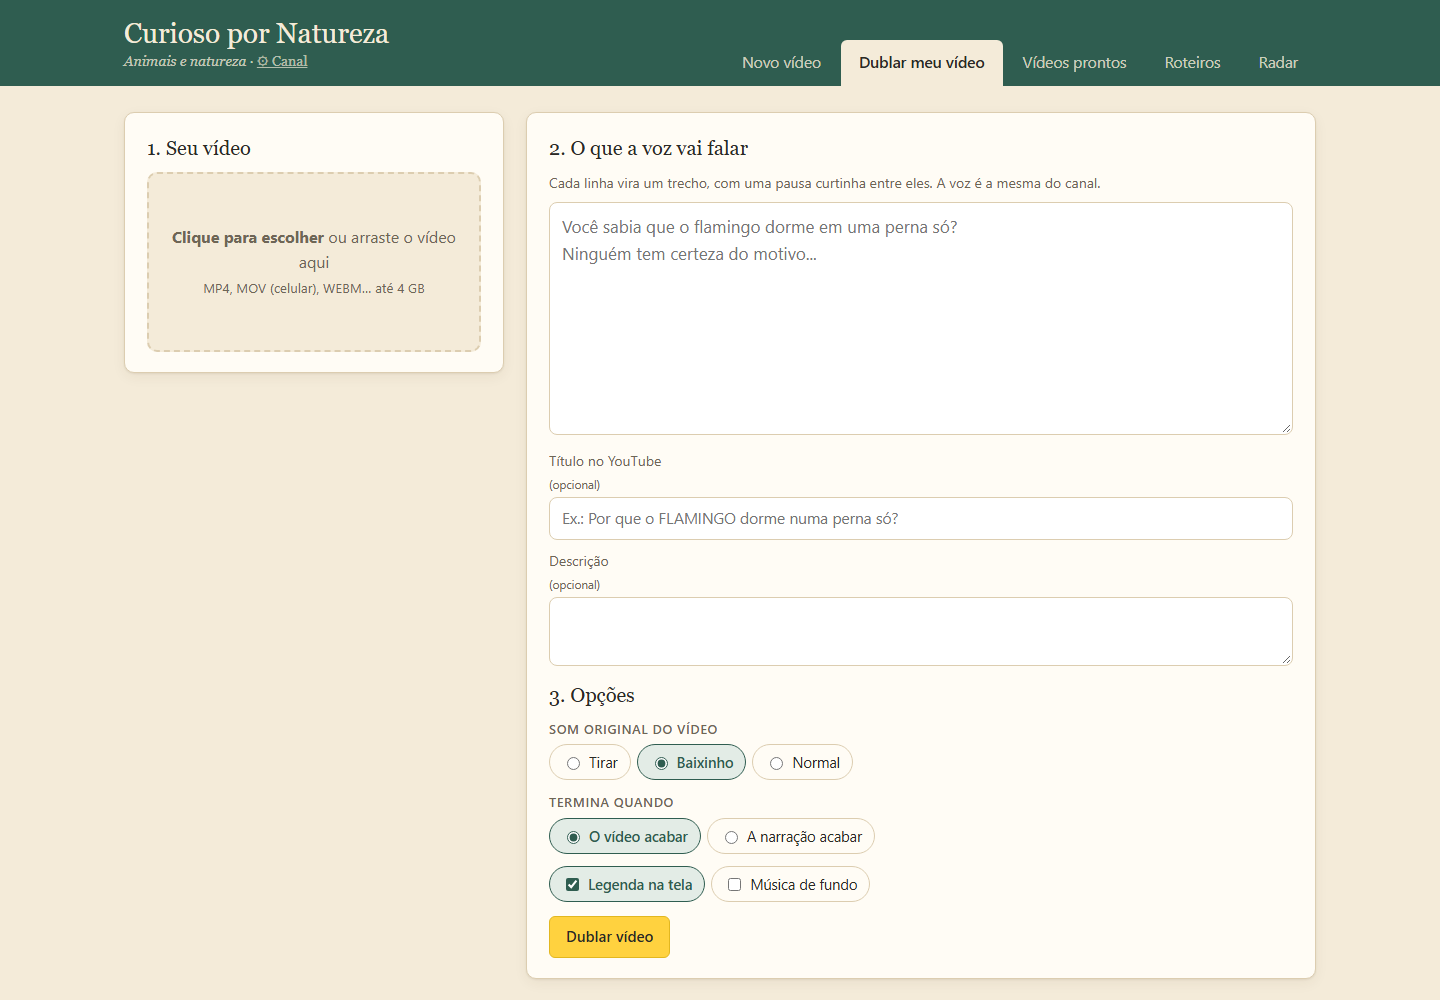
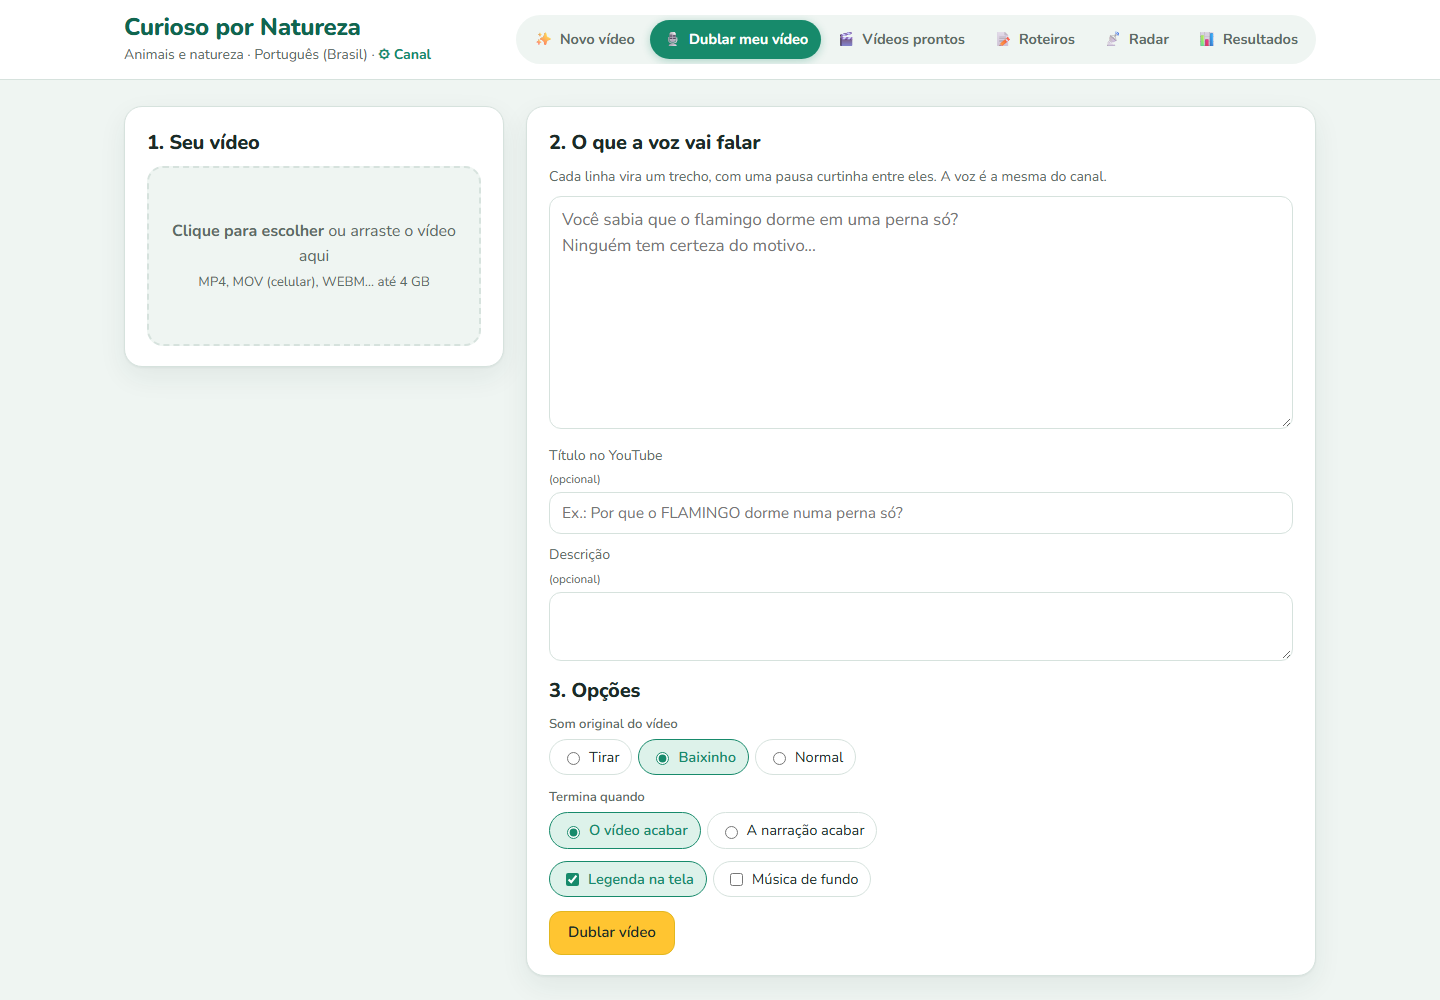
Visual novo do painel: mais claro e amigável
Fundo verde-menta, cartões brancos, fonte Nunito, abas em pílula com ícones,
rótulos sem caixa alta, cantos padronizados, foco visível no teclado e
animação reduzida para quem prefere. Prints do README atualizados.

diff --git a/painel/index.html b/painel/index.html
@@ -3,62 +3,73 @@
 <head>
 <meta charset="utf-8">
 <meta name="viewport" content="width=device-width, initial-scale=1">
+<link rel="preconnect" href="https://fonts.googleapis.com">
+<link rel="preconnect" href="https://fonts.gstatic.com" crossorigin>
+<link href="https://fonts.googleapis.com/css2?family=Nunito:wght@400;600;700;800&display=swap" rel="stylesheet">
 <title>Gerador de vídeos — painel</title>
 <style>
   :root {
-    --papel: #F4EBD9;
-    --papel-2: #EBDFC7;
-    --cartao: #FFFCF5;
-    --tinta: #2B2A26;
-    --tinta-2: #6E6656;
-    --verde: #2F5D50;
-    --verde-2: #234539;
-    --verde-claro: #E3ECE6;
-    --amarelo: #FFD23F;
-    --linha: #DCCDB0;
-    --erro: #A63D2F;
-    --sombra: 0 1px 2px rgba(60, 45, 20, .08), 0 4px 14px rgba(60, 45, 20, .06);
+    --papel: #EFF5F2;
+    --papel-2: #E1ECE7;
+    --cartao: #FFFFFF;
+    --tinta: #1C2B27;
+    --tinta-2: #5B6B66;
+    --verde: #178A6B;
+    --verde-2: #10664F;
+    --verde-claro: #DDF2EA;
+    --amarelo: #FFC531;
+    --linha: #D6E2DD;
+    --erro: #C2410C;
+    --sombra: 0 1px 2px rgba(23, 60, 50, .05), 0 10px 28px rgba(23, 60, 50, .07);
   }
   * { box-sizing: border-box; }
   body {
     margin: 0; background: var(--papel); color: var(--tinta);
-    font: 16px/1.55 system-ui, -apple-system, "Segoe UI", sans-serif;
+    font: 16px/1.55 "Nunito", system-ui, -apple-system, "Segoe UI", sans-serif;
   }
-  h1, h2, h3 { font-family: Georgia, "Times New Roman", serif; font-weight: normal; margin: 0; }
+  h1, h2, h3 { font-weight: 800; letter-spacing: -0.01em; margin: 0; }
   a { color: inherit; }
   button {
     font: inherit; font-size: 15px; cursor: pointer; border: 1px solid var(--verde); background: var(--verde);
-    color: #fff; padding: 8px 16px; border-radius: 6px; transition: background .12s;
+    color: #fff; padding: 9px 18px; border-radius: 12px; font-weight: 700; transition: background .12s;
   }
   button:hover { background: var(--verde-2); }
   button.leve { background: var(--cartao); color: var(--verde); border-color: var(--linha); }
   button.leve:hover { background: var(--verde-claro); border-color: var(--verde); }
   button.destaque { background: var(--amarelo); border-color: #E2B71F; color: var(--tinta); font-weight: 600; }
-  button.destaque:hover { background: #F5C625; }
+  button.destaque:hover { background: #F5B70F; }
+  button.suave { background: var(--verde-claro); border-color: transparent; color: var(--verde-2); }
+  button.suave:hover { background: #C8EADD; }
   button:disabled { opacity: .45; cursor: not-allowed; }
   .pequeno { font-size: 13.5px; padding: 4px 11px; }
 
   /* topo */
-  header { background: var(--verde); color: var(--papel); }
+  header { background: var(--cartao); color: var(--tinta); border-bottom: 1px solid var(--linha); }
   .topo-dentro {
-    max-width: 1240px; margin: 0 auto; padding: 18px 24px 0;
-    display: flex; align-items: flex-end; justify-content: space-between; gap: 18px; flex-wrap: wrap;
+    max-width: 1240px; margin: 0 auto; padding: 14px 24px;
+    display: flex; align-items: center; justify-content: space-between; gap: 14px 24px; flex-wrap: wrap;
   }
-  .marca h1 { font-size: 28px; line-height: 1.1; }
-  .marca p { margin: 2px 0 14px; font-size: 14px; opacity: .75; font-style: italic; font-family: Georgia, serif; }
-  nav { display: flex; gap: 2px; }
+  .marca h1 { font-size: 24px; line-height: 1.15; color: var(--verde-2); }
+  .marca p { margin: 2px 0 0; font-size: 14px; color: var(--tinta-2); }
+  nav { display: flex; gap: 2px; background: var(--papel); padding: 5px; border-radius: 999px; overflow-x: auto;
+        max-width: 100%; min-width: 0; scrollbar-width: none; }
+  .topo-dentro > * { min-width: 0; }
   nav button {
-    background: transparent; color: var(--papel); border: none; border-radius: 6px 6px 0 0;
-    padding: 10px 18px 12px; opacity: .8; font-size: 15.5px;
+    background: transparent; color: var(--tinta-2); border: none; border-radius: 999px;
+    padding: 8px 13px; font-size: 14.5px; font-weight: 700; white-space: nowrap;
   }
-  nav button:hover { background: rgba(255,255,255,.08); opacity: 1; }
-  nav button.ativo { background: var(--papel); color: var(--tinta); opacity: 1; font-weight: 600; }
+  nav button:hover { background: var(--verde-claro); color: var(--verde-2); }
+  nav button.ativo { background: var(--verde); color: #fff; box-shadow: 0 2px 8px rgba(23, 138, 107, .3); }
+  nav button .ico { margin-right: 6px; }
+  button:focus-visible, a:focus-visible, input:focus-visible, select:focus-visible, textarea:focus-visible {
+    outline: 3px solid var(--amarelo); outline-offset: 2px;
+  }
 
   main { max-width: 1240px; margin: 0 auto; padding: 26px 24px 80px; }
   .aba { display: none; }
   .aba.ativa { display: block; }
   .vazio { color: var(--tinta-2); font-style: italic; }
-  .cartao { background: var(--cartao); border: 1px solid var(--linha); border-radius: 10px; box-shadow: var(--sombra); }
+  .cartao { background: var(--cartao); border: 1px solid var(--linha); border-radius: 18px; box-shadow: var(--sombra); }
   .titulo-sec { display: flex; justify-content: space-between; align-items: center; gap: 12px; margin-bottom: 12px; }
   .titulo-sec h2 { font-size: 21px; }
 
@@ -70,13 +81,17 @@
   .tarefa-cab { display: flex; justify-content: space-between; align-items: baseline; gap: 12px; flex-wrap: wrap; }
   .tarefa-cab strong { font-size: 17px; }
   .tarefa-cab span { color: var(--tinta-2); font-size: 14px; }
-  .barra { height: 12px; background: var(--papel-2); border-radius: 6px; overflow: hidden; margin: 10px 0 6px; }
-  .barra div { height: 100%; width: 0; background: var(--verde); border-radius: 6px; transition: width .6s ease; }
+  .barra { height: 12px; background: var(--papel-2); border-radius: 999px; overflow: hidden; margin: 10px 0 6px; }
+  .barra div { height: 100%; width: 0; background: var(--verde); border-radius: 999px; transition: width .6s ease; }
   #tarefa.rodando .barra div {
-    background: repeating-linear-gradient(-45deg, var(--verde) 0 14px, #3B7062 14px 28px);
+    background: repeating-linear-gradient(-45deg, var(--verde) 0 14px, #2FA383 14px 28px);
     background-size: 40px 40px; animation: anda 1.2s linear infinite;
   }
   @keyframes anda { to { background-position: 40px 0; } }
+  @media (prefers-reduced-motion: reduce) {
+    #tarefa.rodando .barra div { animation: none; }
+    * { transition: none !important; }
+  }
   .etapas { display: flex; gap: 6px; flex-wrap: wrap; margin-top: 8px; font-size: 13px; }
   .etapas span { padding: 2px 10px; border-radius: 99px; background: var(--papel-2); color: var(--tinta-2); }
   .etapas span.feita { background: var(--verde-claro); color: var(--verde); }
@@ -85,7 +100,7 @@
   details summary { cursor: pointer; }
   details pre {
     margin: 6px 0 0; max-height: 200px; overflow: auto; font: 12px/1.45 Consolas, monospace;
-    white-space: pre-wrap; background: var(--papel); padding: 8px 10px; border-radius: 6px;
+    white-space: pre-wrap; background: var(--papel); padding: 8px 10px; border-radius: 12px;
   }
 
   /* vídeos */
@@ -93,19 +108,19 @@
   .lista { display: flex; flex-direction: column; gap: 8px; }
   .item {
     display: grid; grid-template-columns: 64px 1fr; gap: 12px; align-items: center;
-    padding: 8px; cursor: pointer; border-radius: 10px; border: 1px solid transparent;
+    padding: 8px; cursor: pointer; border-radius: 14px; border: 1px solid transparent;
   }
   .item:hover { background: var(--cartao); border-color: var(--linha); }
   .item.sel { background: var(--cartao); border-color: var(--verde); box-shadow: var(--sombra); }
   .mini {
-    width: 64px; height: 64px; border-radius: 6px; overflow: hidden; background: #1d1d1b; position: relative;
+    width: 64px; height: 64px; border-radius: 12px; overflow: hidden; background: #1d1d1b; position: relative;
   }
   .mini img, .mini video { width: 100%; height: 100%; object-fit: cover; display: block; pointer-events: none; }
   .item .t { font-weight: 600; font-size: 14.5px; line-height: 1.3; }
   .item .m { color: var(--tinta-2); font-size: 13px; margin-top: 3px; display: flex; gap: 6px; align-items: center; flex-wrap: wrap; }
   .selo {
-    display: inline-block; font-size: 11px; text-transform: uppercase; letter-spacing: .6px; font-weight: 600;
-    padding: 1px 7px; border-radius: 4px; background: var(--papel-2); color: var(--tinta-2);
+    display: inline-block; font-size: 11px;  font-weight: 600;
+    padding: 2px 10px; border-radius: 999px; background: var(--papel-2); color: var(--tinta-2);
   }
   .selo.longo { background: var(--verde-claro); color: var(--verde); }
   .selo.pub { background: var(--verde); color: #fff; }
@@ -113,28 +128,28 @@
   #detalhe-video .cartao { padding: 22px; }
   .detalhe { display: grid; grid-template-columns: auto 1fr; gap: 26px; align-items: start; }
   .detalhe.longo { grid-template-columns: 1fr; }
-  .detalhe video { background: #000; display: block; border-radius: 8px; }
+  .detalhe video { background: #000; display: block; border-radius: 12px; }
   .detalhe video.short { height: 600px; aspect-ratio: 9/16; }
   .detalhe video.longo { width: 100%; aspect-ratio: 16/9; }
   .detalhe h2 { font-size: 23px; margin-bottom: 12px; line-height: 1.25; }
   .acoes { display: flex; gap: 10px; flex-wrap: wrap; align-items: center; margin-bottom: 18px; }
   .interruptor {
     display: inline-flex; gap: 8px; align-items: center; cursor: pointer; padding: 7px 14px;
-    border: 1px solid var(--linha); border-radius: 6px; background: var(--cartao); font-size: 15px;
+    border: 1px solid var(--linha); border-radius: 12px; background: var(--cartao); font-size: 15px;
   }
   .interruptor input { width: 17px; height: 17px; accent-color: var(--verde); }
   .interruptor.marcado { background: var(--verde-claro); border-color: var(--verde); color: var(--verde); font-weight: 600; }
   .campo { margin-bottom: 16px; }
   .campo .rot {
     display: flex; justify-content: space-between; align-items: center; margin-bottom: 5px;
-    font-size: 12.5px; text-transform: uppercase; letter-spacing: .7px; color: var(--tinta-2); font-weight: 600;
+    font-size: 12.5px;  color: var(--tinta-2); font-weight: 600;
   }
   .campo .txt {
-    background: var(--papel); border-radius: 6px; padding: 10px 12px; white-space: pre-wrap;
+    background: var(--papel); border-radius: 12px; padding: 10px 12px; white-space: pre-wrap;
     max-height: 210px; overflow: auto; font-size: 14.5px;
   }
-  .thumb img { width: 100%; max-width: 440px; border-radius: 6px; display: block; }
-  .horarios { font-size: 14px; color: var(--tinta-2); white-space: pre-wrap; background: var(--papel); border-radius: 6px; padding: 10px 12px; }
+  .thumb img { width: 100%; max-width: 440px; border-radius: 12px; display: block; }
+  .horarios { font-size: 14px; color: var(--tinta-2); white-space: pre-wrap; background: var(--papel); border-radius: 12px; padding: 10px 12px; }
   .aviso { font-size: 14px; color: var(--tinta-2); border-top: 1px dashed var(--linha); padding-top: 12px; margin-top: 6px; }
 
   /* roteiros */
@@ -145,16 +160,16 @@
   .roteiro .bts { display: flex; gap: 8px; align-items: center; flex-wrap: wrap; justify-content: flex-end; }
   .ok { color: var(--verde); font-weight: 600; }
   .dica { margin-top: 20px; color: var(--tinta-2); font-size: 14.5px; }
-  code { background: var(--papel-2); padding: 1px 6px; border-radius: 4px; font-size: 13.5px; }
+  code { background: var(--papel-2); padding: 1px 6px; border-radius: 6px; font-size: 13.5px; }
 
   /* radar */
   .radar-topo { display: flex; gap: 12px; align-items: center; flex-wrap: wrap; margin-bottom: 20px; }
-  select { font: inherit; padding: 7px 10px; border: 1px solid var(--linha); border-radius: 6px; background: var(--cartao); }
+  select { font: inherit; padding: 7px 10px; border: 1px solid var(--linha); border-radius: 12px; background: var(--cartao); }
   .temas { display: grid; grid-template-columns: repeat(auto-fill, minmax(270px, 1fr)); gap: 14px; margin-bottom: 30px; }
   .tema { padding: 16px 18px; display: flex; flex-direction: column; gap: 8px; }
   .tema .cab { display: flex; justify-content: space-between; align-items: baseline; gap: 8px; }
   .tema h3 { font-size: 21px; }
-  .tema .pos { font-family: Georgia, serif; color: var(--tinta-2); font-size: 15px; }
+  .tema .pos { color: var(--tinta-2); font-size: 15px; }
   .tema .forca { height: 6px; background: var(--papel-2); border-radius: 3px; overflow: hidden; }
   .tema .forca div { height: 100%; background: var(--amarelo); }
   .tema ul { margin: 0; padding-left: 18px; font-size: 14px; color: var(--tinta-2); flex: 1; }
@@ -173,7 +188,7 @@
   .pedido .sub { color: var(--tinta-2); font-size: 14.5px; margin: 4px 0 12px; }
   textarea {
     width: 100%; font: inherit; font-size: 17px; padding: 10px 12px; border: 1px solid var(--linha);
-    border-radius: 8px; background: #fff; resize: vertical; color: var(--tinta);
+    border-radius: 12px; background: #fff; resize: vertical; color: var(--tinta);
   }
   textarea:focus { outline: 2px solid var(--amarelo); border-color: #E2B71F; }
   .linha-pedido { display: flex; justify-content: space-between; align-items: center; gap: 14px; flex-wrap: wrap; margin-top: 12px; }
@@ -190,7 +205,7 @@
   .angulos { display: grid; grid-template-columns: repeat(auto-fill, minmax(320px, 1fr)); gap: 14px; margin-bottom: 18px; }
   .angulo { padding: 18px 20px; display: flex; flex-direction: column; gap: 8px; }
   .angulo h3 { font-size: 19px; line-height: 1.3; }
-  .angulo .gancho { font-family: Georgia, serif; font-style: italic; font-size: 15.5px; border-left: 3px solid var(--amarelo); padding-left: 10px; }
+  .angulo .gancho { font-style: italic; font-size: 15.5px; border-left: 3px solid var(--amarelo); padding-left: 10px; }
   .angulo p { margin: 0; font-size: 14.5px; }
   .angulo .porque { color: var(--tinta-2); font-size: 13.5px; flex: 1; }
   .obs { margin-bottom: 26px; }
@@ -199,8 +214,7 @@
   .previa { padding: 22px 24px; border-left: 5px solid var(--verde); }
   .previa h2 { font-size: 22px; margin-bottom: 4px; }
   .previa .narracao {
-    background: var(--papel); border-radius: 8px; padding: 14px 16px; margin: 12px 0; white-space: pre-wrap;
-    font-family: Georgia, serif; font-size: 16px; line-height: 1.65; max-height: 420px; overflow: auto;
+    background: var(--papel); border-radius: 12px; padding: 14px 16px; margin: 12px 0; white-space: pre-wrap; font-size: 16px; line-height: 1.65; max-height: 420px; overflow: auto;
   }
   .previa .fontes { font-size: 13px; color: var(--tinta-2); }
 
@@ -211,31 +225,31 @@
   .dublar .sub { color: var(--tinta-2); font-size: 14px; margin: 0 0 8px; }
   .soltar {
     display: flex; align-items: center; justify-content: center; text-align: center; min-height: 180px;
-    border: 2px dashed var(--linha); border-radius: 10px; cursor: pointer; padding: 16px;
+    border: 2px dashed var(--linha); border-radius: 16px; cursor: pointer; padding: 16px;
     color: var(--tinta-2); background: var(--papel); transition: all .12s;
   }
   .soltar:hover, .soltar.sobre { border-color: var(--verde); background: var(--verde-claro); color: var(--verde); }
   .soltar.escolhido { min-height: 0; padding: 10px; }
-  #dub-previa { width: 100%; max-height: 520px; background: #000; border-radius: 8px; margin-top: 10px; }
+  #dub-previa { width: 100%; max-height: 520px; background: #000; border-radius: 12px; margin-top: 10px; }
   .dub-campos { display: grid; gap: 10px; margin-top: 8px; }
   .dub-campos label { font-size: 14px; color: var(--tinta-2); display: grid; gap: 4px; }
   .dub-campos textarea { font-size: 15px; }
   input[type="text"] {
-    font: inherit; font-size: 15.5px; padding: 8px 12px; border: 1px solid var(--linha); border-radius: 8px;
+    font: inherit; font-size: 15.5px; padding: 8px 12px; border: 1px solid var(--linha); border-radius: 12px;
     background: #fff; color: var(--tinta); width: 100%;
   }
   input[type="text"]:focus { outline: 2px solid var(--amarelo); border-color: #E2B71F; }
   .opcoes { display: grid; gap: 12px; }
-  .opcoes .rotulo { display: block; font-size: 13px; text-transform: uppercase; letter-spacing: .6px; color: var(--tinta-2); font-weight: 600; margin-bottom: 5px; }
+  .opcoes .rotulo { display: block; font-size: 13px;  color: var(--tinta-2); font-weight: 600; margin-bottom: 5px; }
   .aviso-dur { color: #9A6B00; }
   @media (max-width: 900px) { .dublar { grid-template-columns: 1fr; } }
 
   .passos { margin: 6px 0 0; padding-left: 22px; font-size: 14.5px; }
-  .linguas { display: grid; gap: 8px; background: var(--papel); border-radius: 6px; padding: 10px 12px; }
+  .linguas { display: grid; gap: 8px; background: var(--papel); border-radius: 12px; padding: 10px 12px; }
   .lingua { display: flex; flex-wrap: wrap; gap: 6px 8px; align-items: center; }
   .lingua strong { min-width: 74px; }
   .linguas .sinais { margin: 0; }
-  .arquivo { font: inherit; font-size: 14.5px; padding: 6px; border: 1px dashed var(--linha); border-radius: 6px; background: var(--papel); }
+  .arquivo { font: inherit; font-size: 14.5px; padding: 6px; border: 1px dashed var(--linha); border-radius: 12px; background: var(--papel); }
   .passos li { margin: 4px 0; }
   .md h3 { font-size: 17px; margin: 18px 0 6px; }
   .md table { margin: 6px 0 4px; }
@@ -255,10 +269,10 @@
 
   /* configuração do canal */
   .link-canal {
-    background: none; border: none; padding: 0; color: var(--papel); font: inherit; font-style: normal;
-    text-decoration: underline; cursor: pointer; opacity: .9;
+    background: none; border: none; padding: 0; color: var(--verde); font: inherit; font-weight: 700;
+    text-decoration: none; cursor: pointer;
   }
-  .link-canal:hover { background: none; opacity: 1; }
+  .link-canal:hover { background: none; text-decoration: underline; color: var(--verde-2); }
   .fundo-config {
     position: fixed; inset: 0; background: rgba(35, 30, 20, .55); display: flex;
     align-items: center; justify-content: center; padding: 16px; z-index: 20;
@@ -273,7 +287,7 @@
 
   #toast {
     position: fixed; left: 50%; bottom: 26px; transform: translate(-50%, 20px); opacity: 0;
-    background: var(--tinta); color: var(--papel); padding: 10px 18px; border-radius: 8px;
+    background: var(--tinta); color: var(--papel); padding: 10px 18px; border-radius: 12px;
     transition: all .2s; pointer-events: none; max-width: 90vw; font-size: 15px;
   }
   #toast.ver { opacity: 1; transform: translate(-50%, 0); }
@@ -295,12 +309,12 @@
       <p><span id="cat-canal">painel de vídeos</span> · <button class="link-canal" id="abrir-config">⚙ Canal</button></p>
     </div>
     <nav>
-      <button data-aba="novo">Novo vídeo</button>
-      <button data-aba="dublar">Dublar meu vídeo</button>
-      <button data-aba="videos" class="ativo">Vídeos prontos</button>
-      <button data-aba="roteiros">Roteiros</button>
-      <button data-aba="radar">Radar</button>
-      <button data-aba="resultados">Resultados</button>
+      <button data-aba="novo"><span class="ico" aria-hidden="true">✨</span>Novo vídeo</button>
+      <button data-aba="dublar"><span class="ico" aria-hidden="true">🎙</span>Dublar meu vídeo</button>
+      <button data-aba="videos" class="ativo"><span class="ico" aria-hidden="true">🎬</span>Vídeos prontos</button>
+      <button data-aba="roteiros"><span class="ico" aria-hidden="true">📝</span>Roteiros</button>
+      <button data-aba="radar"><span class="ico" aria-hidden="true">📡</span>Radar</button>
+      <button data-aba="resultados"><span class="ico" aria-hidden="true">📊</span>Resultados</button>
     </nav>
   </div>
 </header>
@@ -1017,7 +1031,7 @@ function desenharTemas(ranking, data) {
         <div class="cab"><h3>${esc(maiuscula(r.animal))}</h3><span class="pos">#${i + 1}</span></div>
         <div class="forca" title="força do sinal"><div style="width:${Math.round(100 * r.pontos / max)}%"></div></div>
         <ul>${(r.motivos.length ? r.motivos : ["interesse constante"]).map(m => `<li>${esc(m)}</li>`).join("")}</ul>
-        <button class="${r.ja_feito ? "leve" : "destaque"}" data-tema="${i}">Quero esse tema</button>
+        <button class="${r.ja_feito ? "leve" : "suave"}" data-tema="${i}">Quero esse tema</button>
       </div>`).join("") + "</div>";
   el.querySelectorAll("[data-tema]").forEach(b => b.onclick = () => {
     const r = ranking[+b.dataset.tema];

diff --git a/CHANGELOG.md b/CHANGELOG.md
@@ -3,6 +3,11 @@
 Para atualizar: no painel, clique em **Atualizar agora** quando aparecer o aviso de versão nova.
 Ou, na pasta do projeto: `git pull`.
 
+## 1.6 — 17/11/2026
+- **Visual novo do painel**, mais claro e amigável: fundo verde-menta, cartões brancos, fonte
+  arredondada (Nunito), abas em pílula com ícones e rótulos sem letras maiúsculas.
+- Resultados: lê a exportação padrão do YouTube Studio (calcula a retenção pelo tempo de exibição).
+
 ## 1.5 — 17/11/2026
 - **Legenda .srt** de cada vídeo, pronta para enviar no YouTube Studio (ajuda na busca).
 - **Outras línguas**: título, descrição e **áudio dublado** em inglês e espanhol (no mesmo tempo
